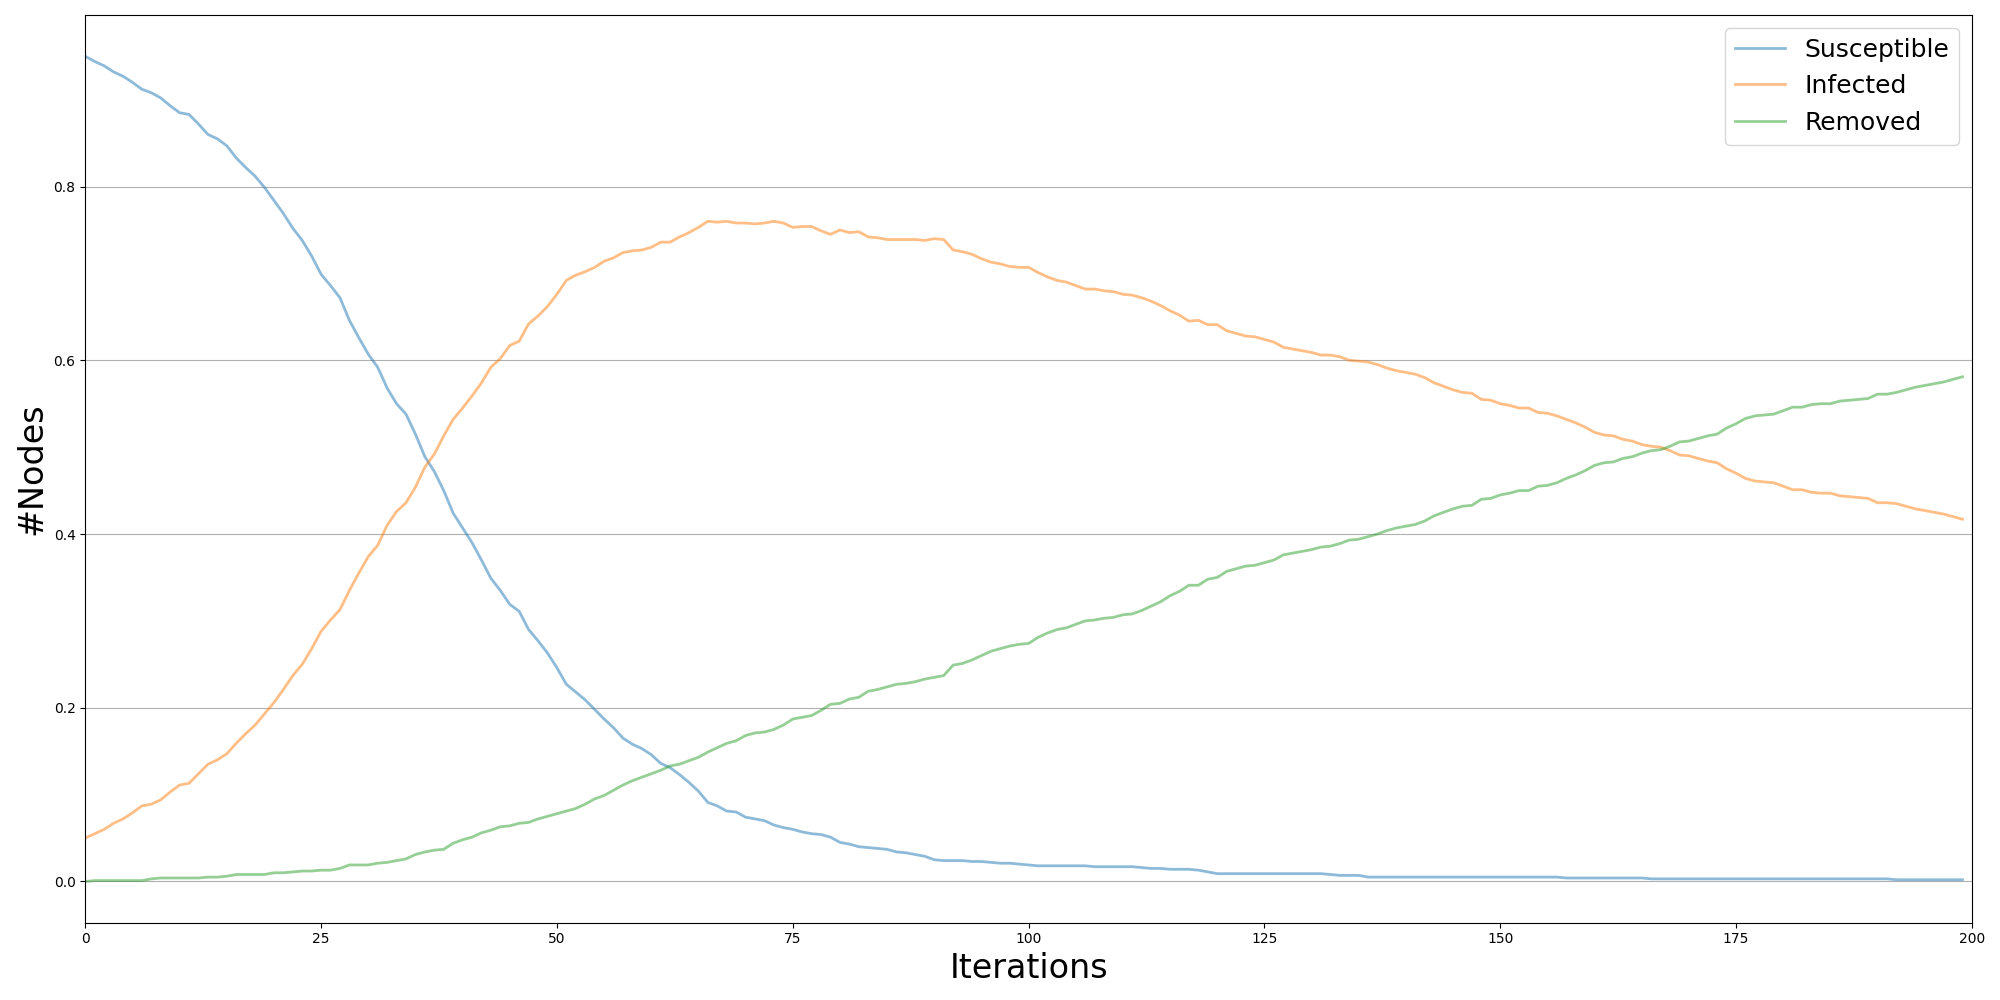
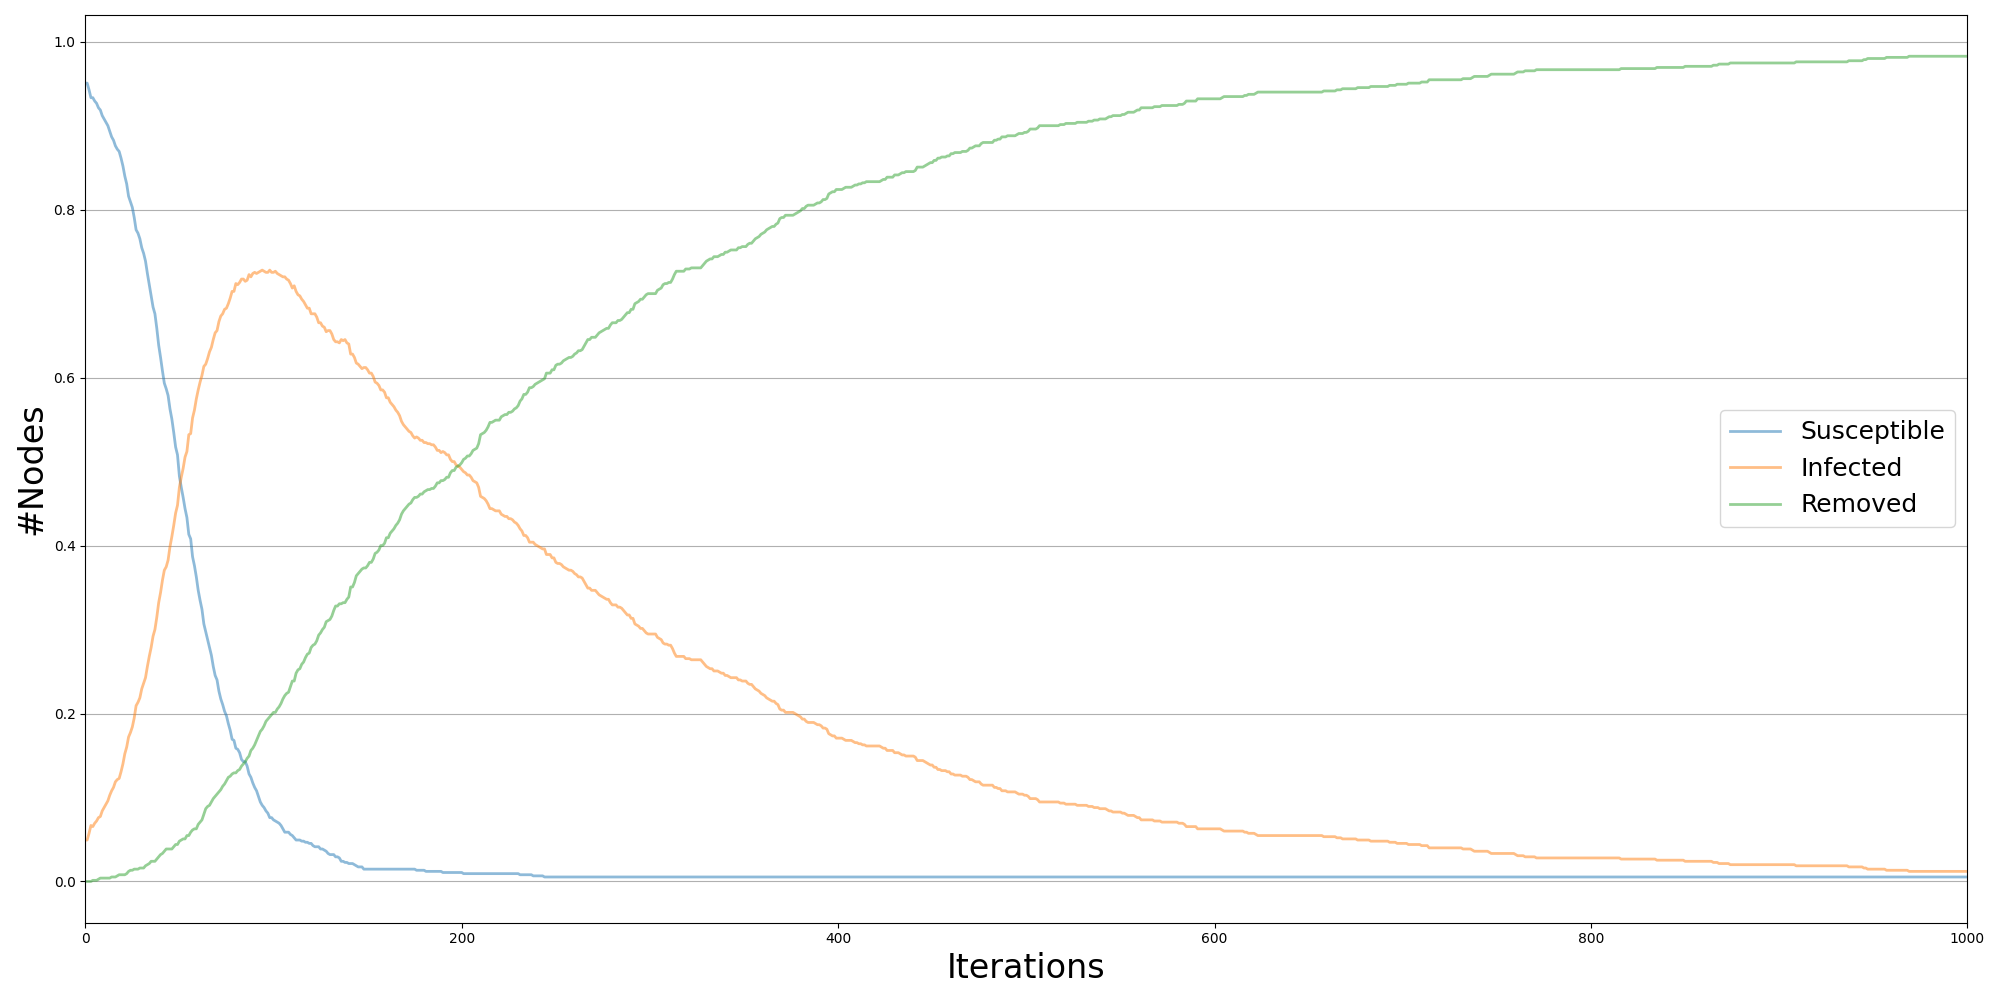
Added alternative to default DiffusionTrend.

diff --git a/main.py b/main.py
@@ -61,6 +61,10 @@ class SIRNetworkModel:
         self.trends = None
         self.node_degrees_freq = None
         self.num_nodes = None
+        self.t = None
+        self.X = None
+        self.Y = None
+        self.Z = None
 
     def configure_SIR_model(self, beta: float, gamma: float, I: float):
         """Configures the SIR model on networks.
@@ -92,7 +96,13 @@ class SIRNetworkModel:
         """Runs the simulation."""
         self.iters = self.model.iteration_bunch(iterations)
         self.trends = self.model.build_trends(self.iters)
-
+        
+        # Store the data properly for own plots
+        self.t = np.arange(iterations)
+        self.X = self.trends[0]['trends']['node_count'][0]
+        self.Y = self.trends[0]['trends']['node_count'][1]
+        self.Z = self.trends[0]['trends']['node_count'][2]
+        
     ### Visualization ###
     def plot_degree_distribution(self, expected=True, save=False):
         """Plots the degree distribution of the network.
@@ -104,8 +114,10 @@ class SIRNetworkModel:
         `save` : bool
             Whether to save the plot (default = False).
         """
-        if self.topology == 'random': self.plot_degree_distribution_random(expected, save)
-        else: pass # TODO add other topologies
+        if self.topology == 'random': 
+            self.plot_degree_distribution_random(expected, save)
+        else: 
+            pass # TODO add other topologies
     
     def plot_degree_distribution_random(self, expected=False, save=False):
         """Plots the degree distribution of a random network.
@@ -184,6 +196,25 @@ class SIRNetworkModel:
         if save:
             viz.plot('Plots/diffusion_trend.png')
 
+        # if test:
+        #     susceptible = [iteration['node_count'][0] for i in self.iters]
+        #     infected = [iteration['node_count'][1] for iteration in iterations]
+        #     recovered = [iteration['node_count'][2] for iteration in iterations]
+        #     time_steps = [iteration['iteration'] for iteration in iterations]
+    
+    def plot_epidemic_spread(self, save=False):
+        """Alternative to `plot_diffusion_trend` because it was ugly.
+        """
+        plt.plot(self.t, self.X, label='Susceptible')
+        plt.plot(self.t, self.Y, label='Infected')
+        plt.plot(self.t, self.Z, label='Recovered')
+        plt.xlabel('Time')
+        plt.ylabel('Number of nodes')
+        plt.title(f'SIR: Epidemic Spread on {self.topology.capitalize} Network')
+        plt.legend()
+        # plt.grid(True)
+        plt.show()
+
     def plot_diffusion_prevalence(self, save=False):
         """Plots the diffusion prevalence and stores as `path`.png.
 
@@ -233,7 +264,8 @@ network = random_network_SIR.network
 random_network_SIR.run_simulation(1000)
 
 # Plot diffusion trend and prevalence
-# random_network_SIR.plot_diffusion_trend(save=True)
+random_network_SIR.plot_diffusion_trend(save=True)
+random_network_SIR.plot_epidemic_spread()
 # random_network_SIR.plot_diffusion_prevalence(save=True)
 
 # Plot degree distribution
